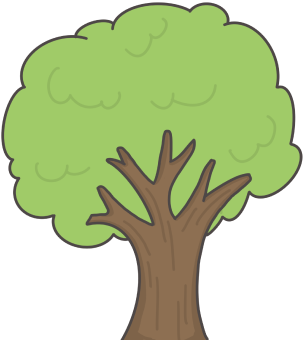
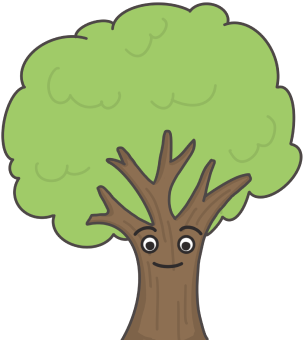
11.13기준 수정(프로그래스바, 감정표현 가능)

Changed region(s): [[0.5016, 0.6471, 0.6787, 0.7941], [0.4426, 0.6471, 0.5311, 0.7647]]

diff --git a/listen_tree/templates/index.html b/listen_tree/templates/index.html
@@ -35,6 +35,24 @@
             width: 30px;
             height: 36px;
         }
+        .progress-bar-container {
+            width: 70%;
+            height: 15px;
+            background-color: #e0e0e0;
+            border-radius: 5px;
+            margin: 20px auto;
+            position: relative;
+            top: 0;
+            left: 0;
+        }
+
+        .progress-bar {
+            height: 100%;
+            width: 0%;
+            background-color: #76c7c0;
+            border-radius: 5px;
+            transition: width 0.3s;
+        }
 
         .icons {
             position: absolute;
@@ -50,12 +68,22 @@
             margin-bottom: 10px;
         }
         .tree {
+            position: relative;
             width: 100%;
             margin-top: 80px;
             text-align: center;
         }
         .tree img {
             width: 50%;
+        }
+        .face-img {
+            position: absolute;
+            width: 30px;    /* 표정 이미지를 적절한 크기로 설정 */
+            height: 30px;
+            top: 50%;      /* 나무 얼굴 위치에 맞게 조정 (예시) */
+            left: 52%;     /* 나무 얼굴 중앙에 맞춤 */
+            transform: translate(-50%, -50%); /* 이미지 중심을 기준으로 위치 조정 */
+            object-fit: contain; /* 이미지 비율 유지 */
         }
         .response {
             background-color: white;
@@ -74,6 +102,30 @@
             display: inline-block;
             color: green;
             text-align: center;
+            height: 50px;
+            overflow: scroll;
+        }
+        .fruit-img {
+            position: absolute;     /* 나무 이미지 위에 겹쳐서 표시 */
+            width: 50px;
+            height: 50px;
+            object-fit: contain;
+        }
+        .fruit1 {
+            top: 20%;
+            left: 40%;
+            transform: translate(-50%, -50%);
+        }
+        .fruit2 {
+            top: 25%;
+            left: 60%;
+            transform: translate(-50%, -50%);
+        }
+
+        .fruit3 {
+            top: 30%;
+            left: 50%;
+            transform: translate(-50%, -50%);
         }
         .user-response {
             background-color: #f1f1f1;
@@ -129,6 +181,9 @@
 </head>
 <body>
     <div class="app-container">
+        <div class="progress-bar-container">
+            <div class="progress-bar" id="progress-bar"></div>
+        </div>
         <div class="setting-icon">
             <img src="/static/icons/settings.png" alt="Settings" class="icon">
         </div>
@@ -137,7 +192,11 @@
             <img src="/static/icons/storage.png" alt="보관함" class="icon">
         </div>
         <div class="tree">
-            <img src="/static/face/tree_def.png" alt="Tree">
+            <img src="/static/tree_norm.png" alt="Tree">
+            <img src="" alt="FaceImg" class="face-img" id="face">
+            <img src="/static/fruit/fruit_0.png" alt="Fruit1" class="fruit-img fruit1">
+            <img src="/static/fruit/fruit_0.png" alt="Fruit2" class="fruit-img fruit2">
+            <img src="/static/fruit_bad/b_fruit_0.png" alt="Fruit3" class="fruit-img fruit3">
             <div class="tree-response" id="tree-response">언제든지 고민을 말씀하세요!</div>
         </div>
         <div class="input-wrapper">
@@ -160,6 +219,9 @@
             const typingPreview = document.getElementById("typing-preview");
             const treeResponse = document.getElementById("tree-response"); // 나무 응답 영역
             const userResponse = document.getElementById("user-response"); // 사용자 입력 영역
+            const faceImg = document.getElementById('face');
+
+            faceImg.src = "/static/face/face_neutral.png";
 
             // 입력 필드에서 타이핑 중 발생하는 이벤트
             userInput.addEventListener("keyup", function(event) {
@@ -199,9 +261,31 @@
                 }
                 typingPreview.innerText = '';  // 타이핑 미리보기 초기화
             }
+            let currentPromptCount = 0; // 현재 프롬프트 수
+            const stageThresholds = [10, 30, 60, 100, 150]; // 각 단계별 프롬프트 목표
+            const progressBar = document.getElementById("progress-bar");
+
+            function updateProgressBar() {
+                currentPromptCount += 1;
+
+                // 현재 단계를 결정
+                let stageIndex = stageThresholds.findIndex(threshold => currentPromptCount < threshold);
+                if (stageIndex === -1) stageIndex = stageThresholds.length - 1;
+
+                // 현재 단계의 시작 프롬프트 수와 목표 프롬프트 수
+                const prevThreshold = stageIndex > 0 ? stageThresholds[stageIndex - 1] : 0;
+                const currentThreshold = stageThresholds[stageIndex];
+
+                // 현재 단계에서의 진행률 계산
+                const progressPercentage = ((currentPromptCount - prevThreshold) / (currentThreshold - prevThreshold)) * 100;
+
+                // 프로그레스 바 너비 업데이트
+                progressBar.style.width = `${progressPercentage}%`;
+            }
 
             // 서버로 메시지 전송
             async function sendMessage(message) {
+                // 사용자 입력을 서버로 보내기
                 const response = await fetch('/chat', {
                     method: 'POST',
                     headers: { 'Content-Type': 'application/json' },
@@ -210,7 +294,17 @@
 
                 const data = await response.json();
                 treeResponse.innerText = `${data.response}`; // 나무의 응답을 tree-response에 표시
+                // 감정 분석 요청 추가
+                const emotionResponse = await fetch('/analyze_emotion', {
+                    method: 'POST',
+                    headers: { 'Content-Type': 'application/json' },
+                    body: JSON.stringify({ message: message })
+                });
 
+                const emotionData = await emotionResponse.json();
+                updateFaceImage(emotionData.emotion);
+
+                updateProgressBar();
                 // 대화 기록 업데이트
                 let fruitList = document.getElementById('fruit-list');
                 fruitList.innerHTML = '';
@@ -218,6 +312,21 @@
                     fruitList.innerHTML += `<li>Fruit ${fruit.id}</li>`;
                 });
             }
+            // 표정 업데이트 함수 분리
+            function updateFaceImage(emotion) {
+                // 감정에 맞는 표정으로 변경
+                if (emotion) {
+                    faceImg.src = `/static/face/face_${emotion}.png`;
+                } else {
+                    faceImg.src = "/static/face/face_neutral.png"; // 감정이 없을 때 기본 표정
+                }
+
+                // 일정 시간 후 기본 표정으로 되돌리기
+                setTimeout(() => {
+                    faceImg.src = "/static/face/face_neutral.png";
+                }, 3000); // 3초 후 기본 표정으로 돌아감
+            }
+
         });
     </script>
 

diff --git a/listen_tree/app.py b/listen_tree/app.py
@@ -2,11 +2,12 @@ from flask import Flask, render_template, request, jsonify
 from openai import OpenAI
 import os
 
+
 # Flask 앱 생성
 app = Flask(__name__)
 
 # OpenAI API 키 설정
-os.environ["OPENAI_API_KEY"] = "your-api-key"
+os.environ["OPENAI_API_KEY"] = "api-key"
 
 model = "gpt-4o-mini"
 client = OpenAI(
@@ -43,8 +44,18 @@ def generate_response(user_input):
 
 # 나무 성장 단계 결정 함수
 def update_tree_stage(conversation_count):
-    tree_set = ["seed", "sapling", "young_tree", "mid_tree", "full_tree"]
-    return tree_set[conversation_count // 50]
+    if conversation_count < 10:
+        return "seed"
+    elif conversation_count < 30:
+        return "sapling"
+    elif conversation_count < 60:
+        return "small_tree"
+    elif conversation_count < 100:
+        return "large_tree"
+    elif conversation_count < 150:
+        return "fruit_tree"
+    else:
+        return 'end'
 
 
 # 열매 요약 기능 구현 (최근 대화 내용을 요약)
@@ -70,6 +81,30 @@ def summarize_conversation(conversations):
     except Exception as e:
         return f"Error: {str(e)}"
 
+def emotion_recognition(user_input):
+    # GPT 모델에 입력할 프롬프트 정의
+    prompt = f"""
+    The following is a sentence: "{user_input}"
+    Please determine the emotion expressed in this sentence. Possible emotions are:
+    [angry, sad, happy, neutral, surprise, worry]
+
+    Return only the emotion label.
+    """
+
+    # OpenAI API 요청
+    response = client.chat.completions.create(
+        model=model,  # 또는 gpt-4
+        messages=[
+            {"role": "system", "content": "You are an assistant that labels emotions."},
+            {"role": "user", "content": prompt}
+        ],
+        max_tokens=10  # 감정 라벨만 반환할 것이므로 짧게 설정
+    )
+
+    # 응답에서 감정 라벨 추출.choices[0].message.content.strip()
+    emotion = response.choices[0].message.content.strip()
+    return emotion
+
 # 라우트 및 로직 설정
 @app.route('/')
 def index():
@@ -87,14 +122,35 @@ def chat():
     user_data["conversation_count"] += 1
     user_data["tree_stage"] = update_tree_stage(user_data["conversation_count"])
 
-    # 요약 생성 코드 (50회마다 요약)
-    if user_data["conversation_count"] % 50 == 0:
-        last_5_user_messages = [{"user": entry['user']} for entry in user_data["chat_history"][-5:]]
-        fruit_summary = summarize_conversation(last_5_user_messages)
+    # 열매 나무가 완전히 성장한 후 (end 상태) 열매 수확 및 초기화
+    if user_data["tree_stage"] == "end":
+        # 첫 번째 열매 (0~49까지의 대화 요약)
+        first_fruit_summary = summarize_conversation(
+            [{"user": entry['user']} for entry in user_data["chat_history"][:50]])
         user_data["fruit"].append({
             "id": len(user_data["fruit"]) + 1,
-            "summary": fruit_summary  # 요약된 텍스트
+            "summary": first_fruit_summary
         })
+
+        # 두 번째 열매 (50~99까지의 대화 요약)
+        second_fruit_summary = summarize_conversation(
+            [{"user": entry['user']} for entry in user_data["chat_history"][50:100]])
+        user_data["fruit"].append({
+            "id": len(user_data["fruit"]) + 1,
+            "summary": second_fruit_summary
+        })
+
+        # 세 번째 열매 (100~149까지의 대화 요약)
+        third_fruit_summary = summarize_conversation(
+            [{"user": entry['user']} for entry in user_data["chat_history"][100:150]])
+        user_data["fruit"].append({
+            "id": len(user_data["fruit"]) + 1,
+            "summary": third_fruit_summary
+        })
+
+        # 모든 열매 수확 후 초기화
+        user_data["conversation_count"] = 0
+        user_data["tree_stage"] = "seed"
 
     return jsonify({"response": response, "tree_stage": user_data["tree_stage"], "fruits": user_data["fruit"], "chat_history": user_data["chat_history"]})
 
@@ -111,6 +167,14 @@ def get_fruit_summary(fruit_id):
 @app.route('/fruit', methods=['GET'])
 def get_all_fruit_summaries():
     return jsonify(user_data["fruit"])
+
+
+# 감정 분석을 수행하는 API 엔드포인트
+@app.route('/analyze_emotion', methods=['POST'])
+def analyze_emotion():
+    user_input = request.json['message']
+    emotion = emotion_recognition(user_input)
+    return jsonify({'emotion': emotion})
 
 
 if __name__ == '__main__':
